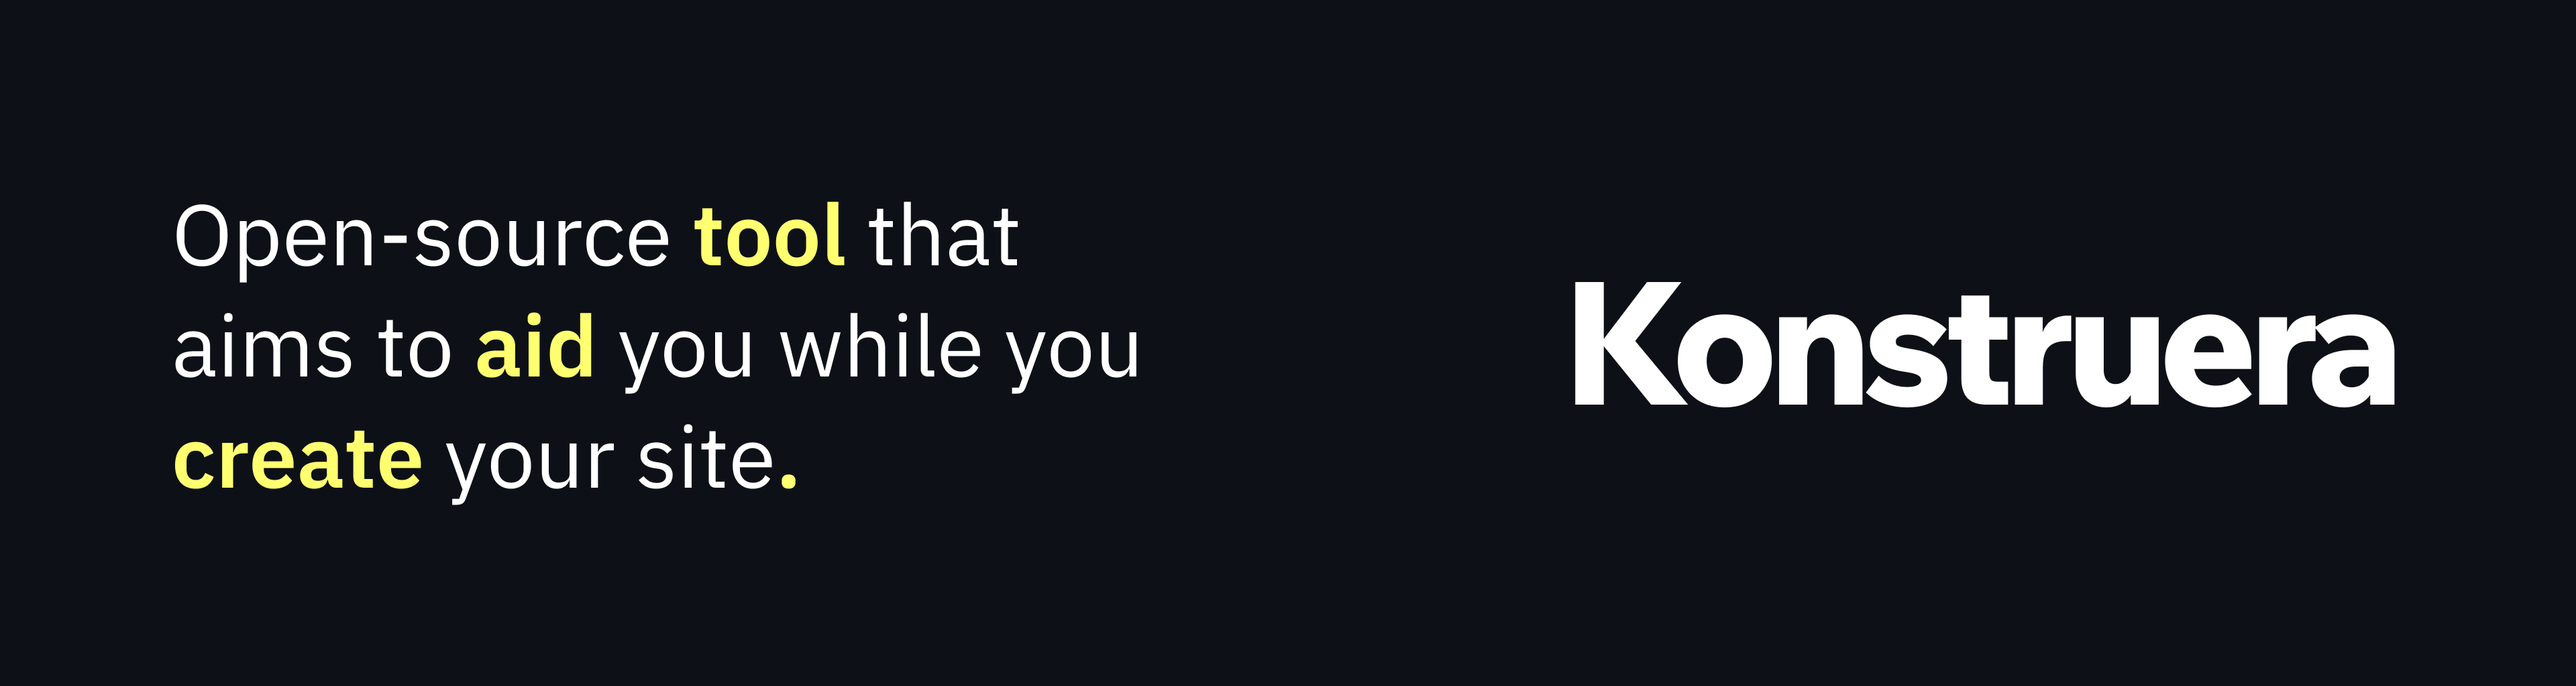
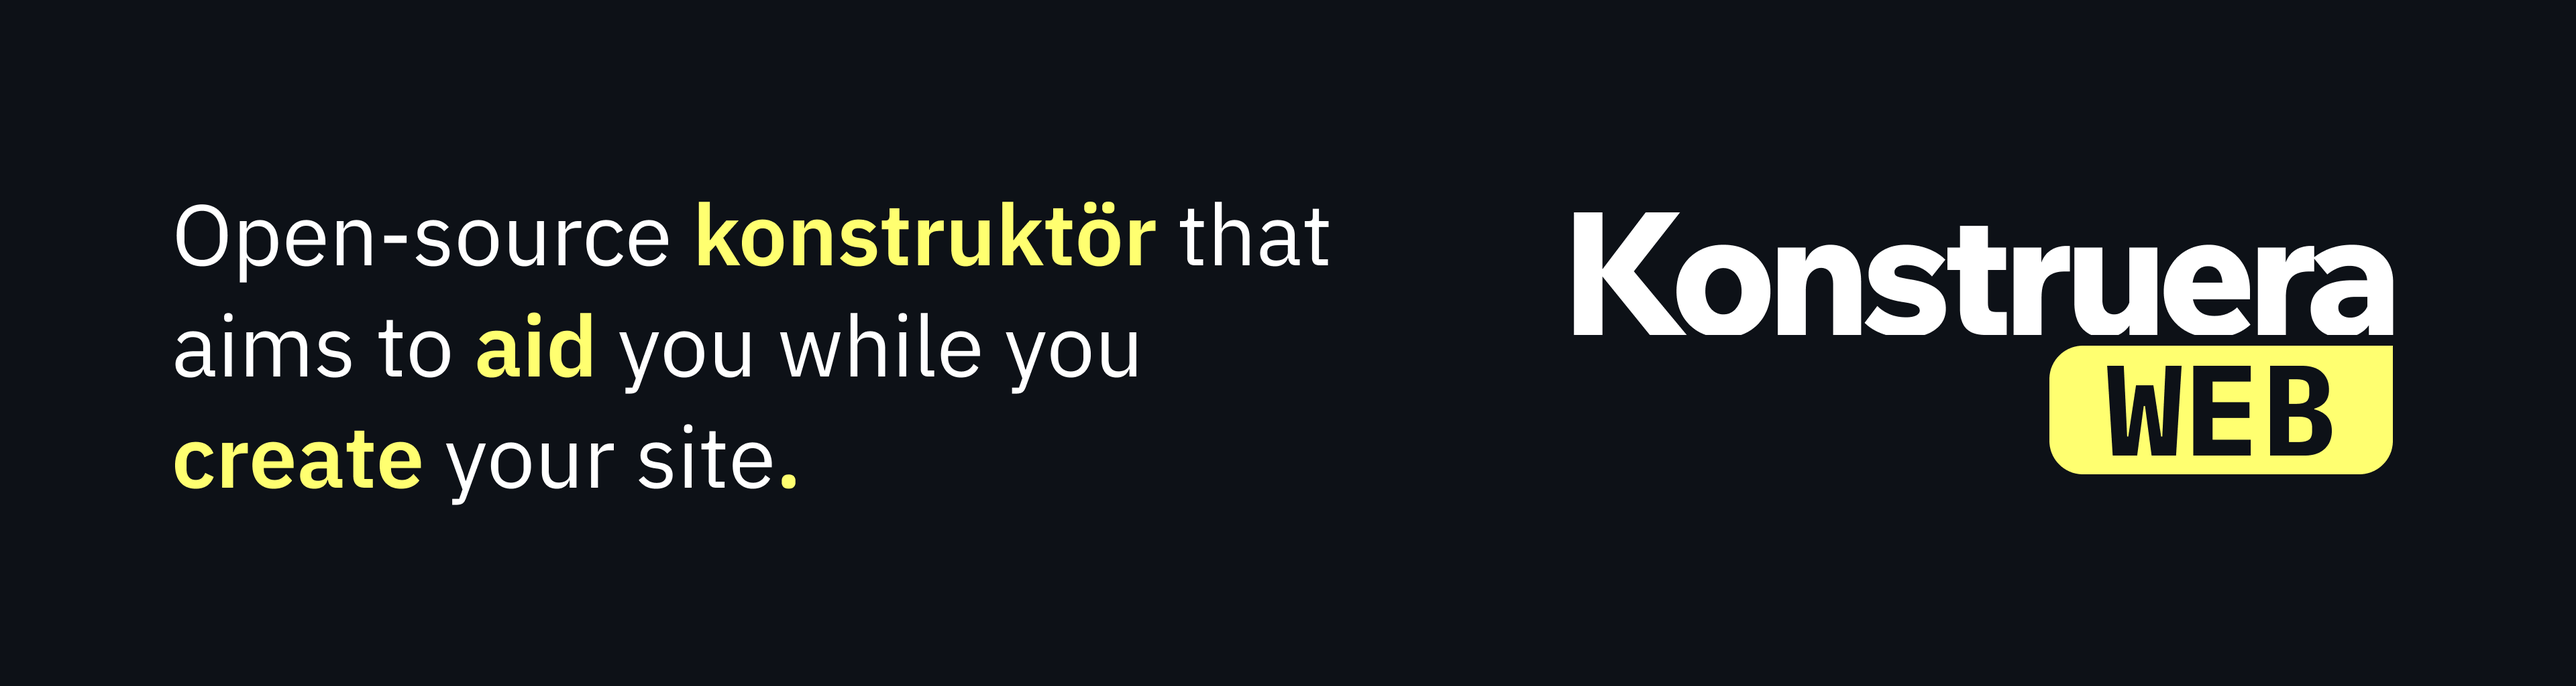
Rebranding from "Konstruera" to "Webuera".

Changed region(s): [[0.5938, 0.3125, 0.9375, 0.7188], [0.25, 0.2812, 0.5312, 0.4062]]

diff --git a/src/main.rs b/src/main.rs
@@ -1,5 +1,5 @@
 use std::{process::exit, env};
-use konstruera::*;
+use webuera::*;
 
 fn main() {
     let args = env::args().collect::<Vec<String>>();
@@ -7,11 +7,11 @@ fn main() {
         _ => { let mut index = 1; while index < args.len() { match args[index].as_str() {
             // Commands
             cmds if cmd !=2=> { cmd=1; match cmds {
-                "build" => { match vec!["konstruera.config", "source/", "template/"].iter().all(|required| utility::check(required)) {
+                "build" => { match vec!["webuera.config", "source/", "template/"].iter().all(|required| utility::check(required)) {
                     false => { eprintln!("{}", strings::fetch("build.")); exit(-1); }
                     true => { /* building process will take place in a different file */ }
                 }},
-                "init" => { match vec!["konstruera.config", "source/", "template/"].iter().all(|required| utility::check(required)) {
+                "init" => { match vec!["webuera.config", "source/", "template/"].iter().all(|required| utility::check(required)) {
                     true => { eprintln!("{}", strings::fetch("build.")); exit(-1); }
                     false => { /* itialisinad process will take in a diff file */ }
                 }},

diff --git a/src/strings.rs b/src/strings.rs
@@ -16,7 +16,7 @@ pub fn fetch(text: &str) -> String { let identifier=text.split('.').collect::<Ve
             "insufficient"=>"Insufficent number of parametres has been passed.",
         _=>{c=true;u}}),
 /*  */  "commands" => match identifier[1] {
-            "help"=>format!("\x1b[1mKonstruera {}\x1b[0m\nSite \x1b[4mbuilder\x1b[0m..?\n\nProgram parameters:\n    \x1b[1mKonstruera\x1b[0m [FLAGS]\n\nProgram flags:\n    \x1b[1m--help\x1b[0m & \x1b[1m-h\x1b[0m  ::  Shows Konstruera's description and usage.\n    \x1b[1m--version\x1b[0m & \x1b[1m-v\x1b[0m  ::  Outputs current version of Konstruera.", VERSION),
+            "help"=>format!("\x1b[1mWebuera {}\x1b[0m\nSite \x1b[4mbuilder\x1b[0m..?\n\nProgram parameters:\n    \x1b[1mWebuera\x1b[0m [FLAGS]\n\nProgram flags:\n    \x1b[1m--help\x1b[0m & \x1b[1m-h\x1b[0m  ::  Shows Webuera's description and usage.\n    \x1b[1m--version\x1b[0m & \x1b[1m-v\x1b[0m  ::  Outputs current version of Webuera.", VERSION),
             "version"=>VERSION.to_string(),
         _=>n },
 /*  */  "warning" => format!("\x1b[1;33m!!\x1b[0m {}", match identifier[1] {

diff --git a/README.md b/README.md
@@ -1,20 +1,20 @@
-# Konstruera: Site builder..?
+# Webuera - Konstruera for the Web: Site constructor.
 
-![GitHub top language](https://img.shields.io/github/languages/top/NotAlternate/Konstruera?color=FFFF70&style=flat-square)
-![GitHub repo size](https://img.shields.io/github/repo-size/NotAlternate/Konstruera?color=FFFF70&style=flat-square)
-![GitHub commit activity](https://img.shields.io/github/commit-activity/m/NotAlternate/Konstruera?color=FFFF70&style=flat-square)
+![GitHub top language](https://img.shields.io/github/languages/top/NotAlternate/Webuera?color=FFFF70&style=flat-square)
+![GitHub repo size](https://img.shields.io/github/repo-size/NotAlternate/Webuera?color=FFFF70&style=flat-square)
+![GitHub commit activity](https://img.shields.io/github/commit-activity/m/NotAlternate/Webuera?color=FFFF70&style=flat-square)
 
-Konstruera is a tool created by me to aid me build [notalternate.github.io](https://notalternate.github.io).
+Webuera is a tool created by me to aid me build [notalternate.github.io](https://notalternate.github.io).
 However sharing is caring, so this tool is open-source I guess..
 
-<p align="center"><img alt="Konstruera banner" src="./banner.png"></p>
+<p align="center"><img alt="Webuera banner" src="./banner.png"></p>
 
-*Banner of Konstruera's short description and logo.*
+*Banner of Webuera's short description and logo.*
 
 ## Prerequisites
 
 If you are running a Windows NT system, WSL (Windows Subsystem for Linux) is recommended.
-Although Konstruera should work in NT systems, it is not tested.<br>
+Although Webuera should work in NT systems, it is not tested.<br>
 However, if you are using MacOS or (any) Linux (distro), you can continue the installation process.
 
 \* It is recommended to install the Rust programming language via ([Rustup](https://rustup.rs))
@@ -27,17 +27,17 @@ However, if you are using MacOS or (any) Linux (distro), you can continue the in
 
 ## Installation (unstable)
 
-Currently, there are no stable releases of Konstruera, cloning the repository directly will give you the in-development or unstable version.
+Currently, there are no stable releases of Webuera, cloning the repository directly will give you the in-development or unstable version.
 Proceed if you are alright with it.
 
 #### CLONING, BUILDING AND INSTALLING
 
 1. Clone the repository via any option in the "**<> Code**" tab, which can be found on the top of the GitHub repository's page.
-2. Run the following command in the `./Konstruera/` directory (The cloned repository, replace if you cloned under a different name).
+2. Run the following command in the `./Webuera/` directory (The cloned repository, replace if you cloned under a different name).
 ```sh
 $ cargo build --release; cargo install --path .
 ```
-3. Konstruera should be compiled as an executable inside the `./target/release/` directory and installed to your Cargo binaries.
+3. Webuera should be compiled as an executable inside the `./target/release/` directory and installed to your Cargo binaries.
 
 ## Contributing
 
@@ -47,4 +47,4 @@ After a pull request, please be patient for me to review and manage conflicts.
 
 ## Repository license
 
-The Konstruera tool repository owned by NotAlternate is licensed under the [MIT](LICENSE) license.
+The Webuera tool repository owned by NotAlternate is licensed under the [MIT](LICENSE) license.
